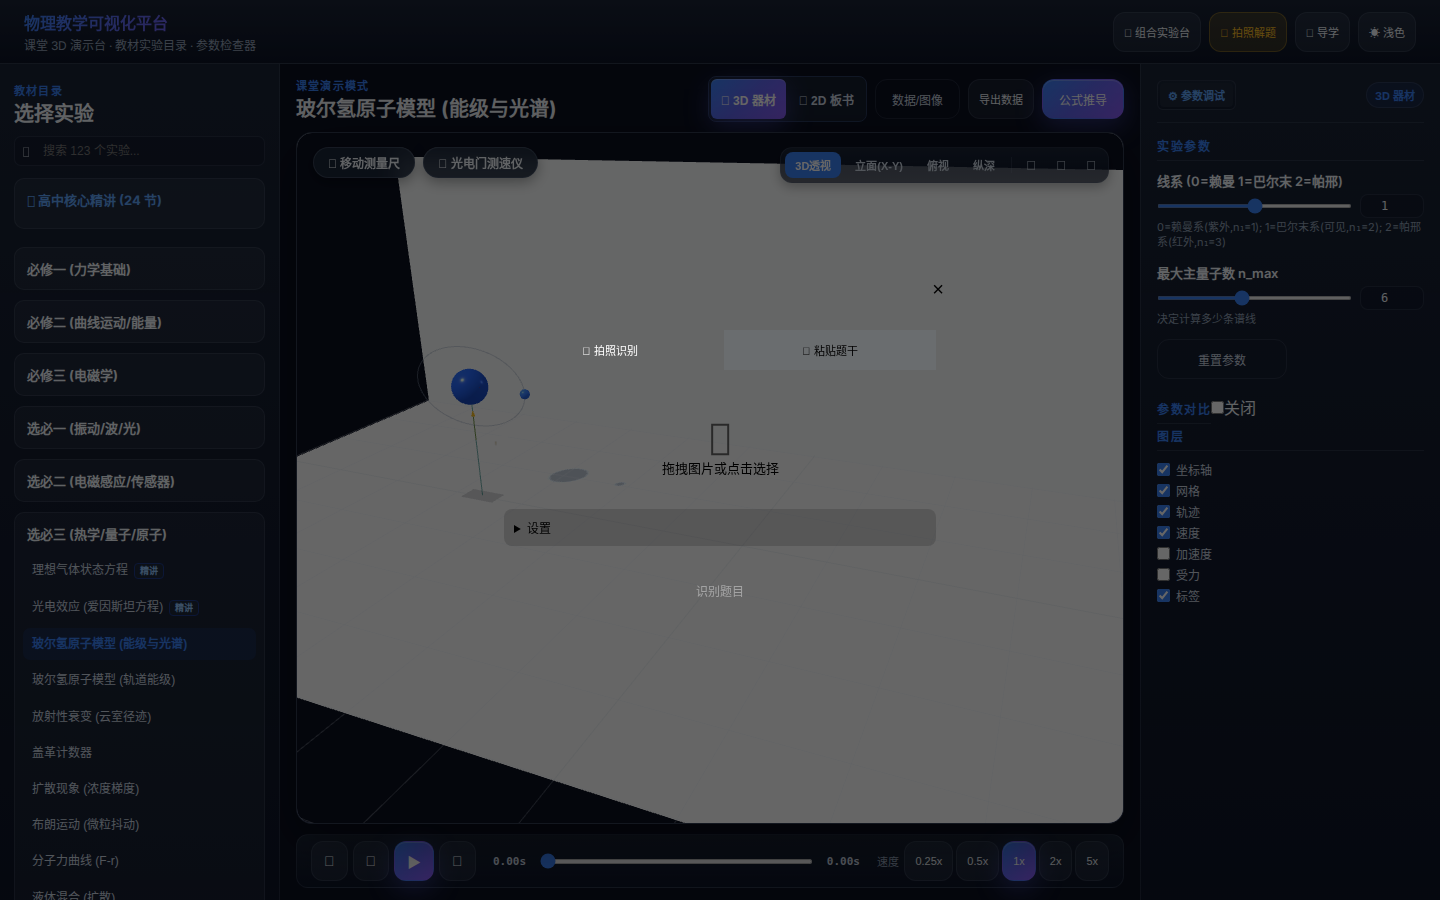
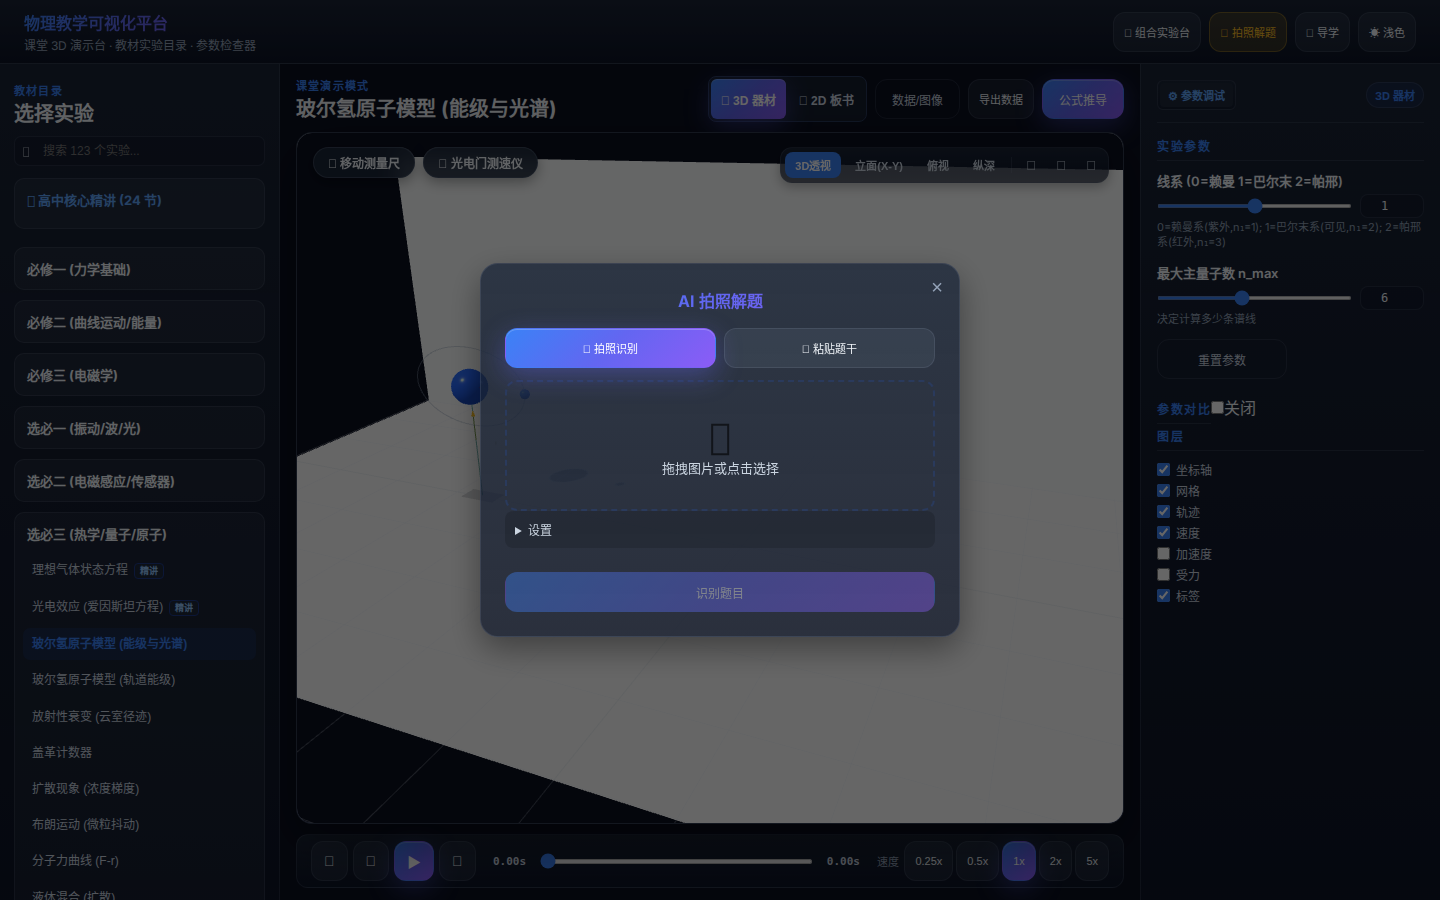
fix(#118): portal 浮层设计令牌作用域修复 — 令牌上移 :root + 主题镜像 <html.light>
createPortal 到 document.body 的浮层（OCR 弹窗 / 导学面板）此前脱离 .app 设计令牌
作用域，背景/边框/圆角/阴影/标题渐变全部失效（#112 引入的定位修复遗留的样式回归）。

- styles.css: 设计令牌块 .app → :root，亮色覆盖 .app.light → :root.light
  （.app 仅保留容器布局属性 height/background/color 等）
- App.tsx: useEffect 将主题镜像到 <html class="light">，令 body 级 portal 在
  暗/亮双主题下均正确继承 :root 令牌（纯 :root 上移只修暗色，亮色 portal 仍会取暗值）
- scripts/verify-portal-tokens.mjs: 入库 computed-style 探针（不入 CI/precheck），
  断言 OCR 弹窗暗/亮双主题关键样式非 none；修复前红（body 令牌空、样式全 none）
  修复后绿，双向可验
- 重采 README 04/05 图：弹窗/导学卡片外观恢复；01/02/03/06 逐字节不变

Refs #118

Changed region(s): [[0.3125, 0.28, 0.6875, 0.7156]]

diff --git a/visualization/src/styles.css b/visualization/src/styles.css
@@ -26,7 +26,10 @@ body {
 }
 
 /* ========== Theme & Design Tokens ========== */
-.app {
+/* 设计令牌定义在 :root 而非 .app：使 createPortal 到 document.body 的浮层
+   （OCR 弹窗 / 导学面板）同样继承令牌；亮色主题通过 <html class="light"> 镜像
+   （见 App.tsx useEffect），令 body 级 portal 在暗/亮双主题下均正确取色（#118）。 */
+:root {
     /* 布局变量 */
     --sidebar-w: 240px;
     --canvas-min-h: 380px;
@@ -83,7 +86,8 @@ body {
 
     /* 输入框 / 文本域玻璃底色（按主题切换） */
     --input-bg: rgba(15, 23, 42, 0.45);
-
+}
+.app {
     height: 100vh;
     max-height: 100vh;
     overflow: hidden;
@@ -92,7 +96,7 @@ body {
     background: var(--bg);
     color: var(--text);
 }
-.app.light {
+:root.light {
     --bg: #eef2fb;
     --bg2: #ffffff;
     --bg3: #f1f5f9;

diff --git a/visualization/src/app/App.tsx b/visualization/src/app/App.tsx
@@ -30,6 +30,12 @@ export function App() {
         ensureScenesLoaded();
     }, [ensureScenesLoaded]);
 
+    // #118：将主题镜像到 <html class="light">，使 createPortal 到 document.body 的浮层
+    //（OCR 弹窗 / 导学面板）也能继承 :root 设计令牌并在亮色下正确取色（令牌见 styles.css :root / :root.light）。
+    useEffect(() => {
+        document.documentElement.classList.toggle('light', theme === 'light');
+    }, [theme]);
+
     return (
         <div className={`app ${theme} ${sidebarOpen ? 'sidebar-open' : 'sidebar-closed'}`}>
             <header className="top-bar classroom-top-bar">
